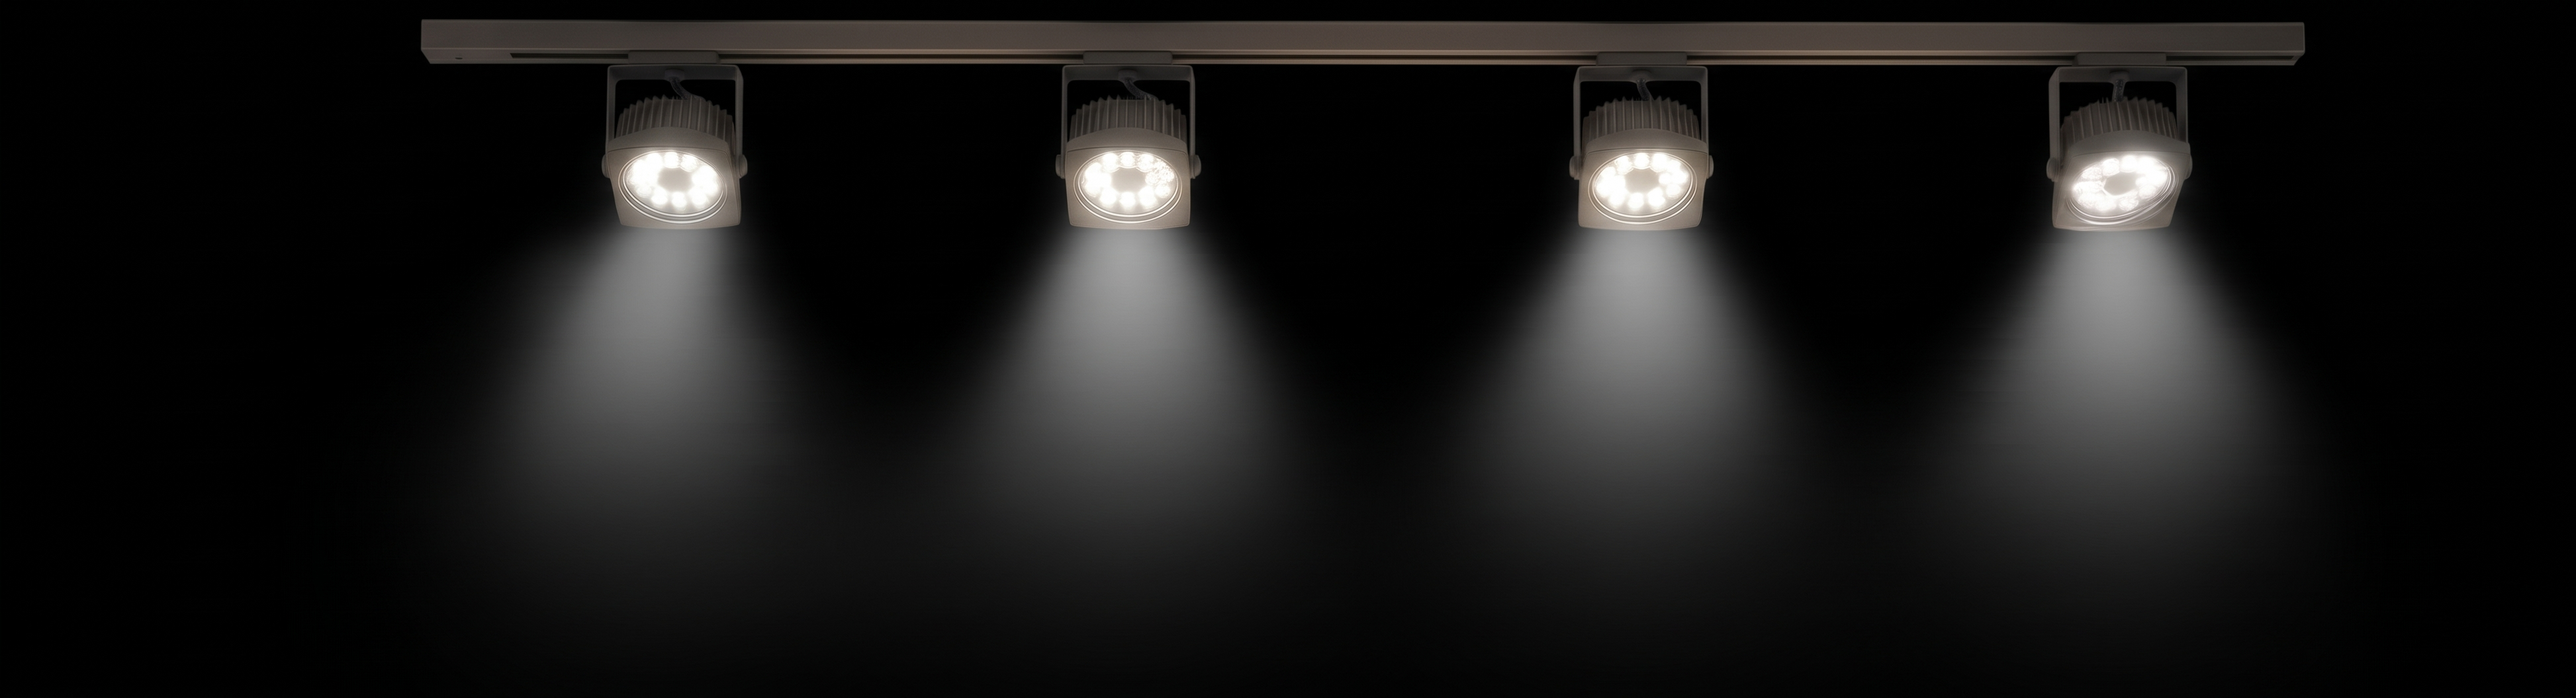
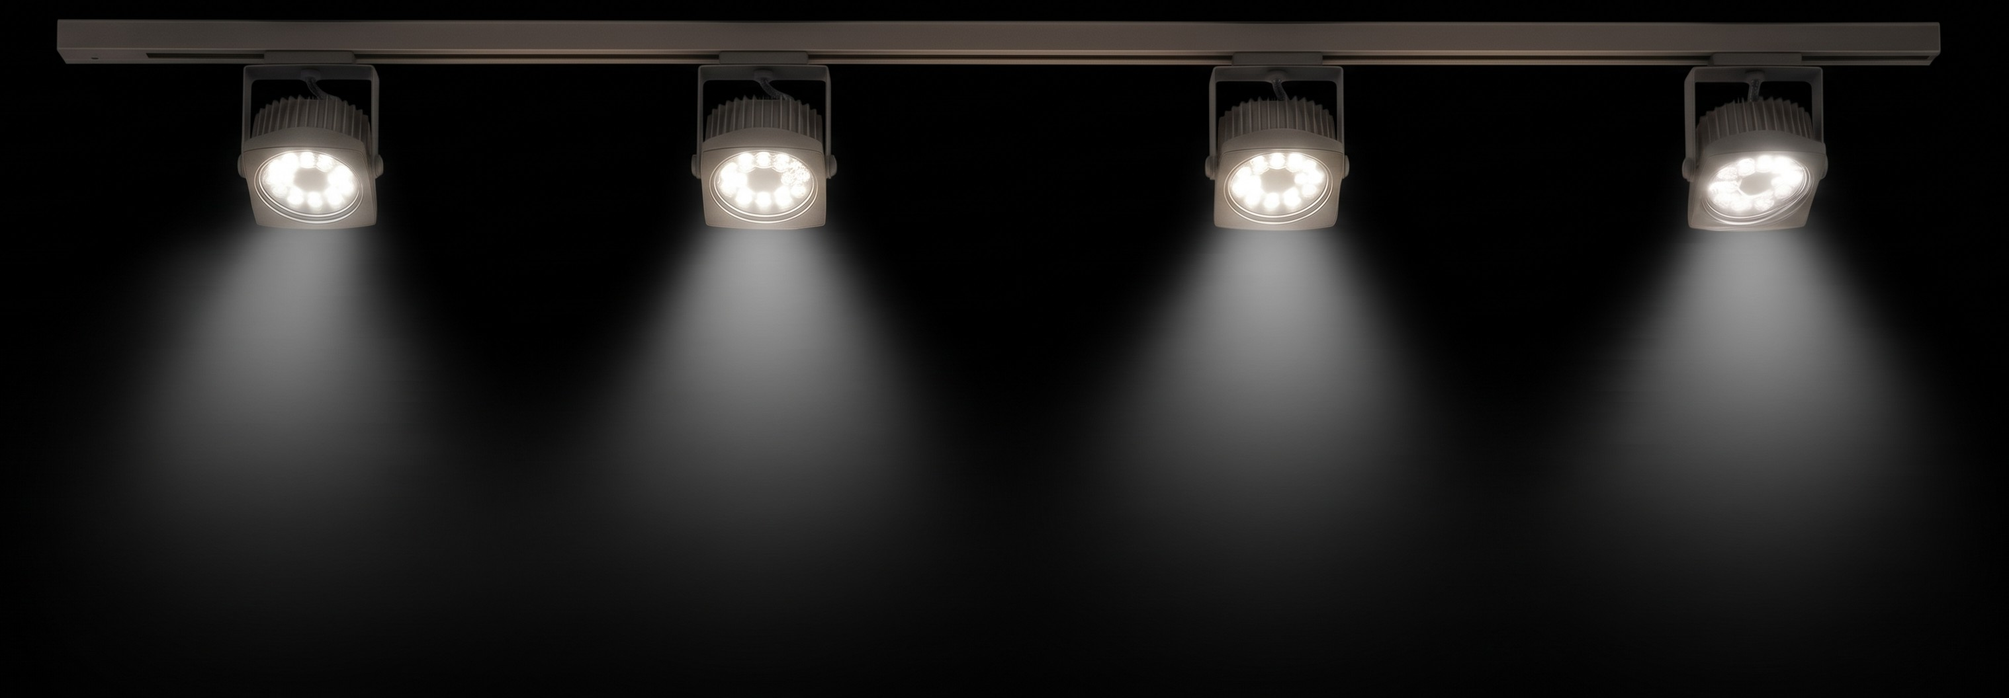
fix: swap in the new hero lights and G-Class
Replace both hero images with the new JPEGs and keep the same stack, width, and gap.

diff --git a/src/components/capital/Hero.tsx b/src/components/capital/Hero.tsx
@@ -62,11 +62,9 @@ export function Hero() {
               className="h-auto w-full"
             />
           </div>
-          <img
-            src={heroCarImage}
-            alt="Чёрный Mercedes-Benz G-Class"
-            className="mt-8 h-auto w-full object-contain sm:mt-10 lg:mt-14"
-          />
+          <div className="mt-8 w-full bg-black sm:mt-10 lg:mt-14">
+            <img src={heroCarImage} alt="Чёрный Mercedes-Benz G-Class" className="h-auto w-full" />
+          </div>
         </div>
       </div>
     </section>

diff --git a/src/components/capital/assets.ts b/src/components/capital/assets.ts
@@ -1,6 +1,6 @@
 import hero from "@/assets/hero-gwagen.png";
 import heroLights from "@/assets/hero-spotlights.jpg";
-import heroCar from "@/assets/hero-car.png";
+import heroCar from "@/assets/hero-car.jpg";
 import mustang from "@/assets/gallery-mustang.jpg";
 import bmw from "@/assets/gallery-bmw.jpg";
 import zeekr from "@/assets/gallery-zeekr.jpg";
